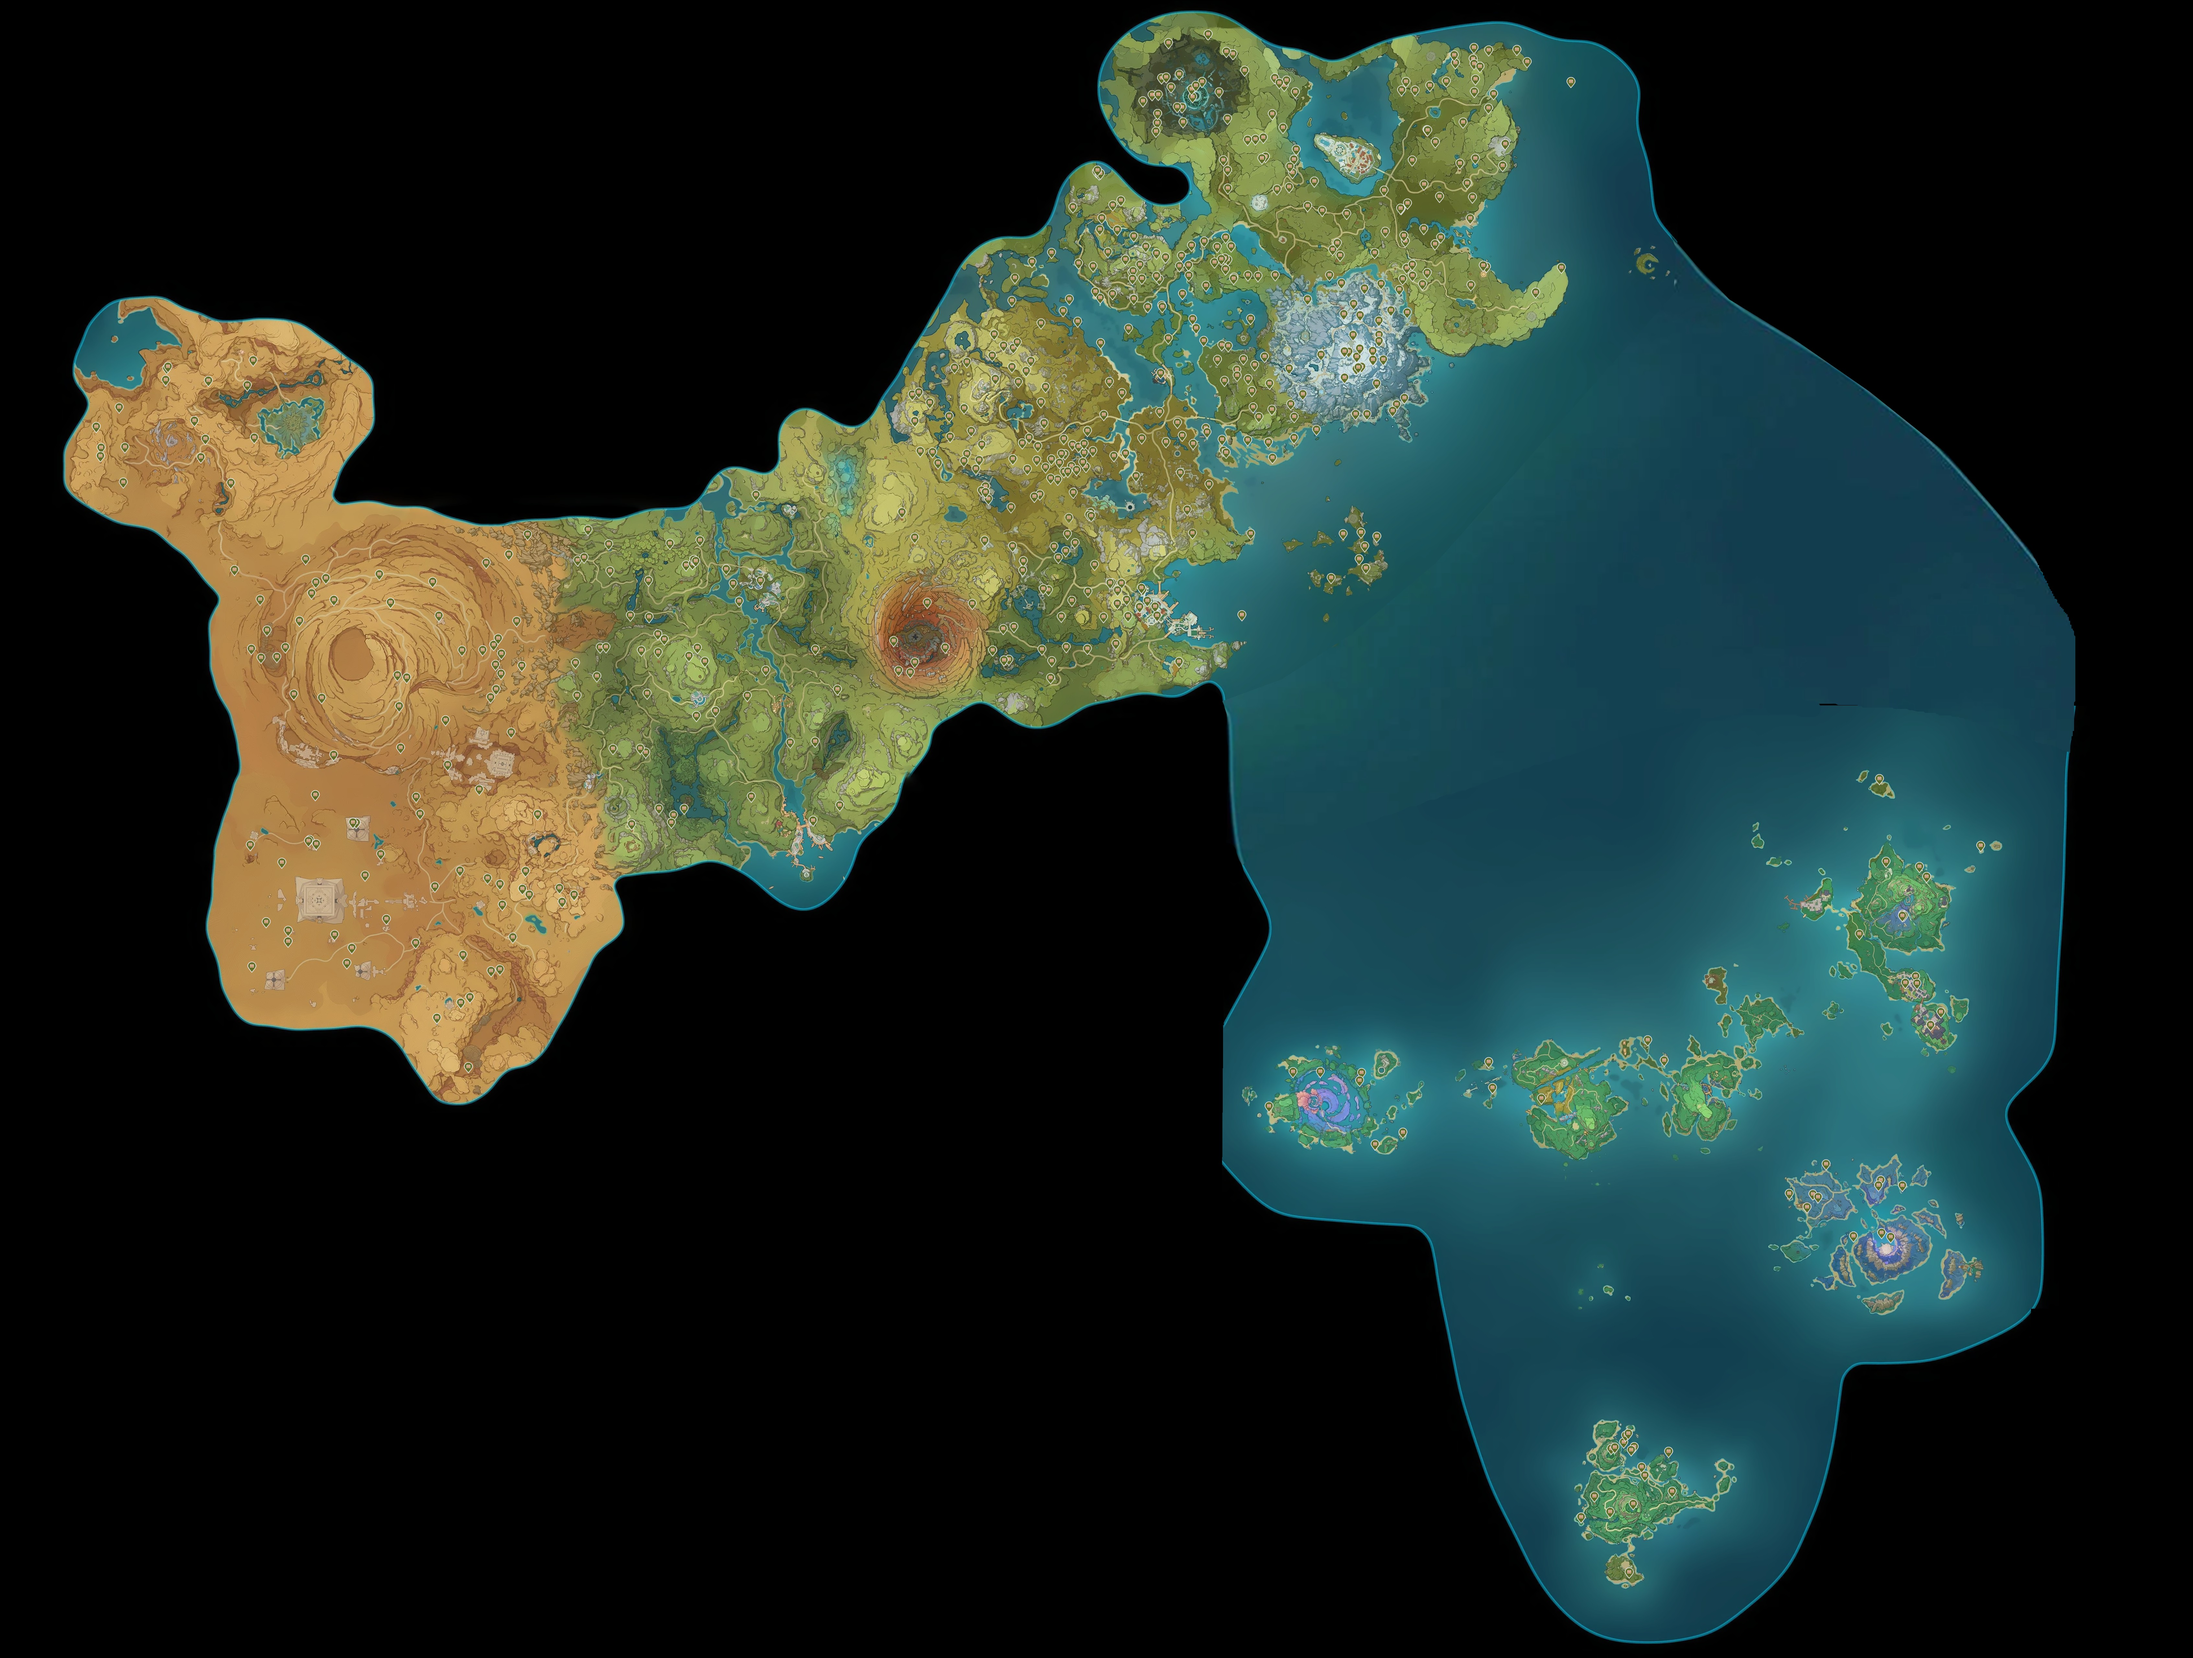
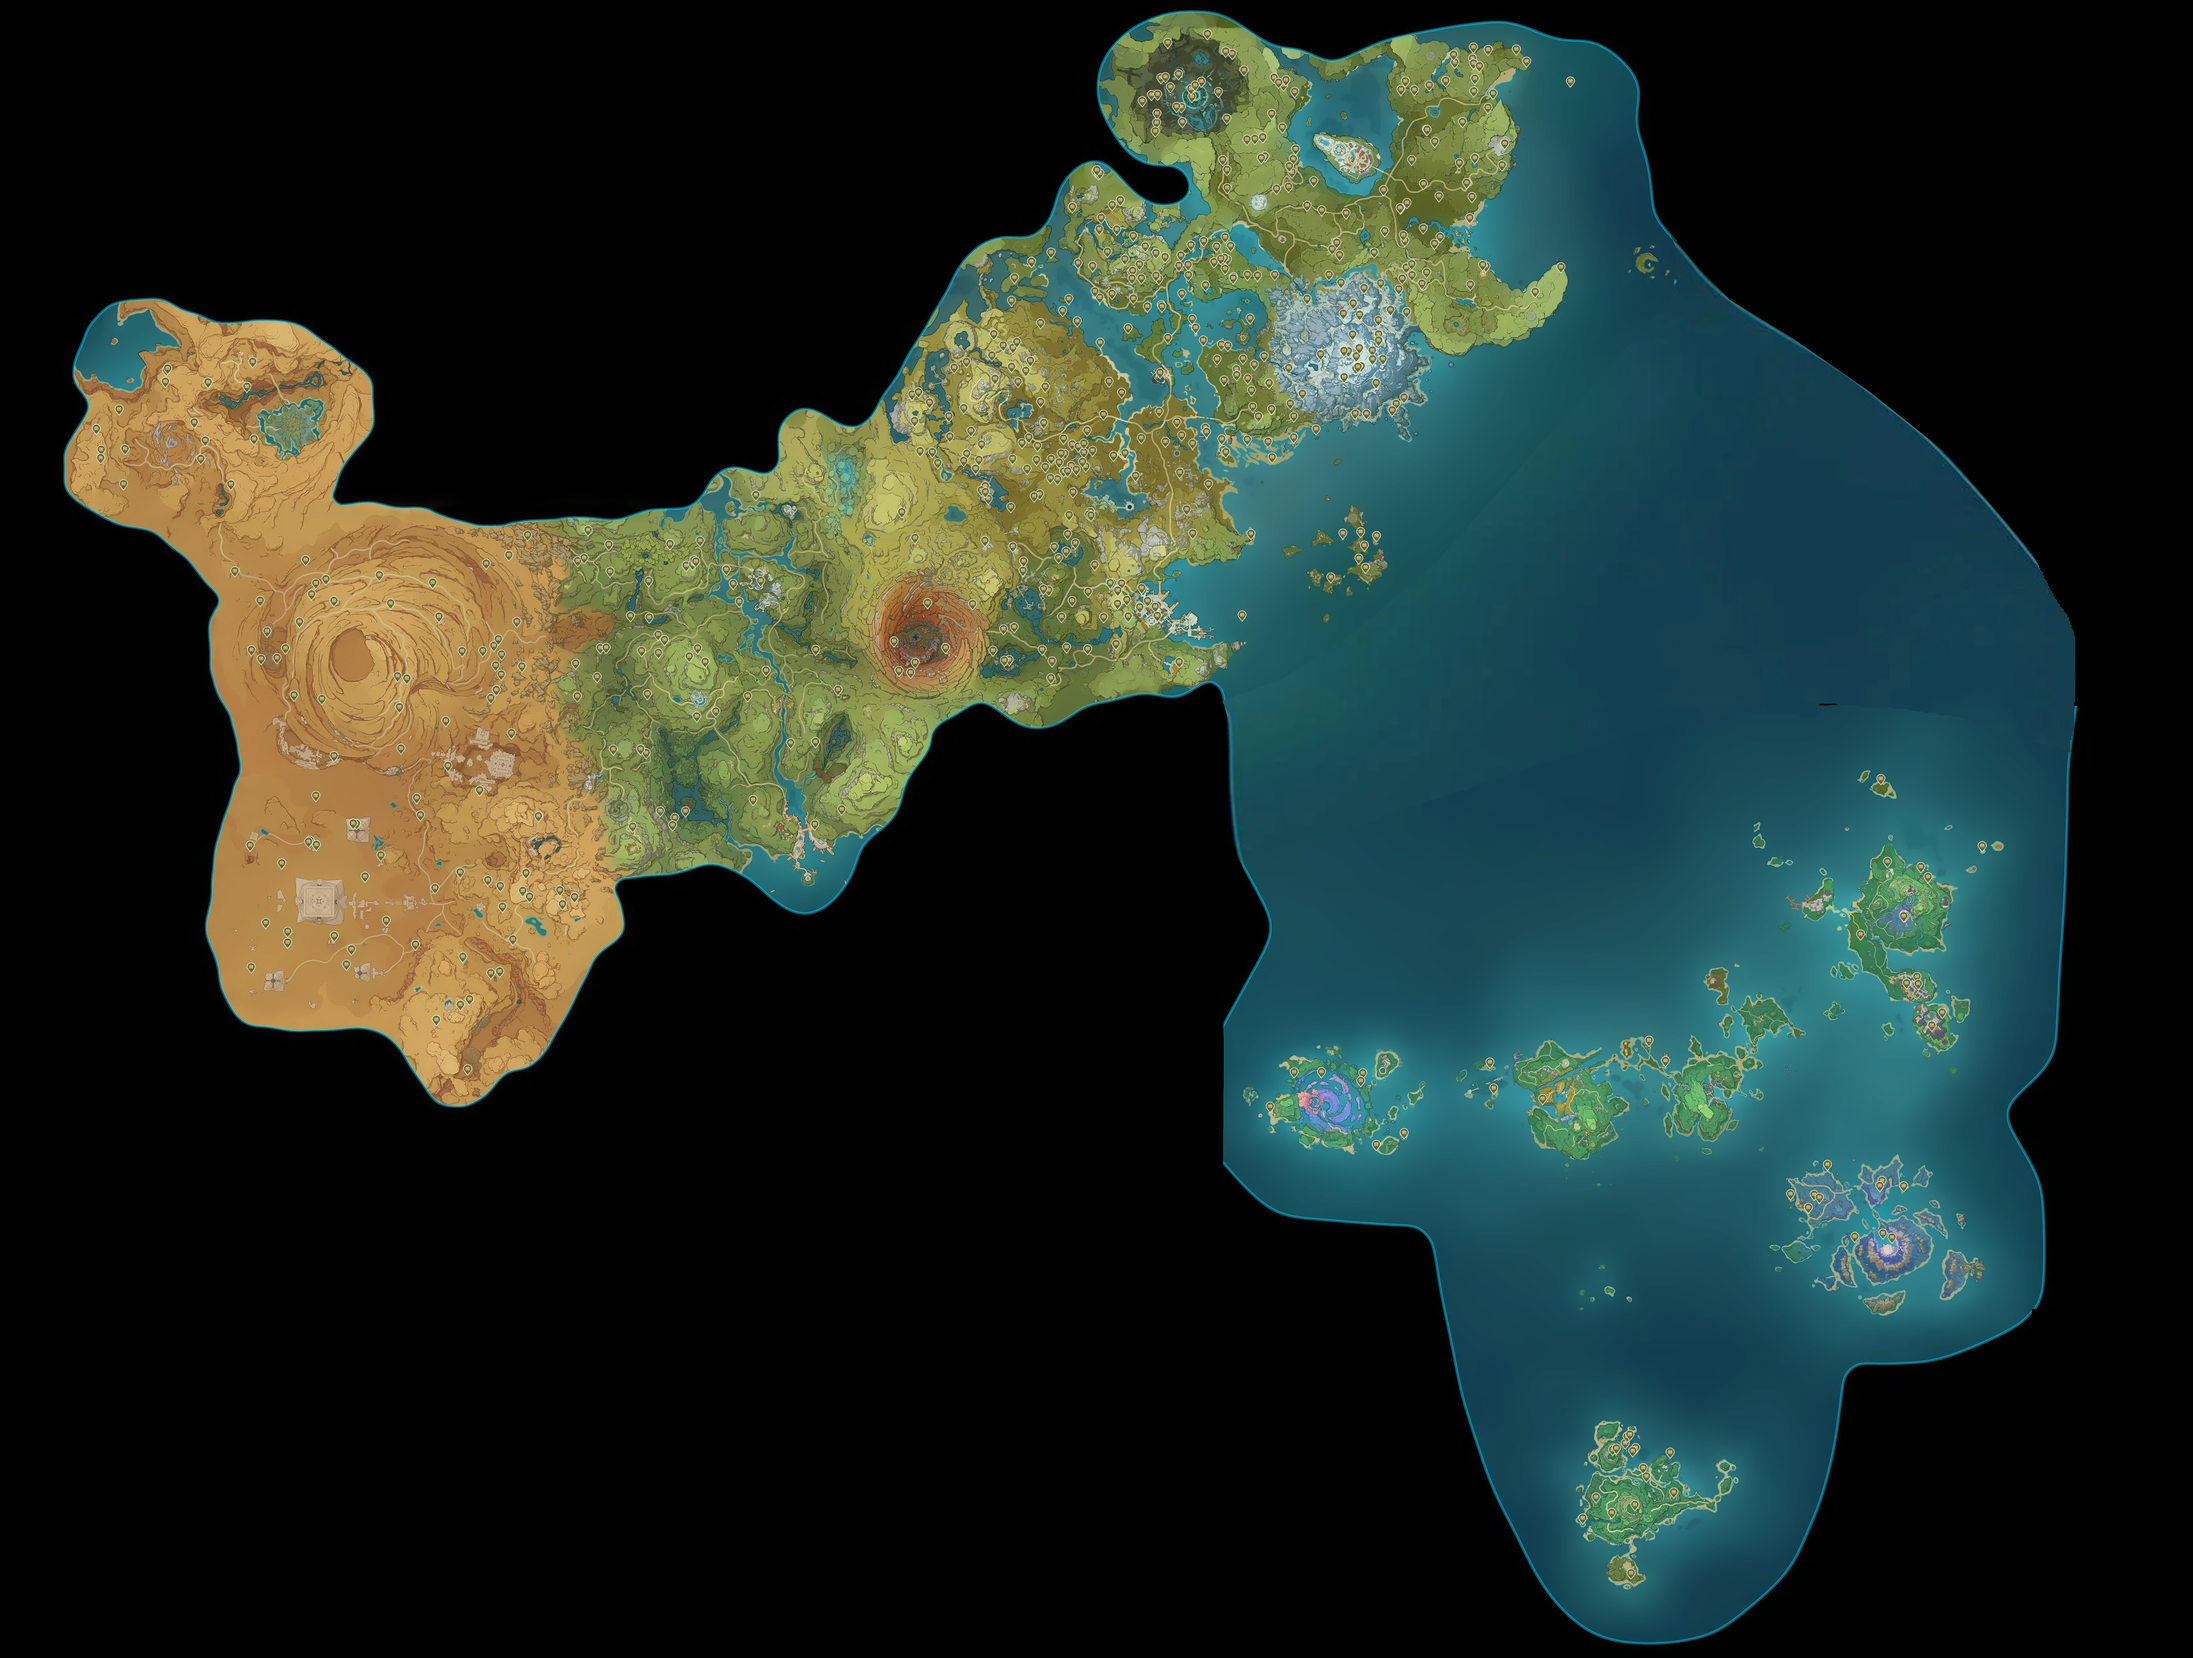
bug fixes and improvements

diff --git a/python/getmaps.py b/python/getmaps.py
@@ -122,17 +122,18 @@ def screenshot(title):
     # move map to starting position
     time.sleep(1)
     pan(50, 1300)
-    print(len(images))
     screenshot_To_Cv()
     pan(dragDistanceX)
     screenshot_To_Cv()  # 03
     pan(0, dragDistanceY)
     screenshot_To_Cv()  # 03
     # screenshot pan repeat - convert to for loops when finished
-    for _ in range(3):
+    for _ in range(2):
         pan(-1 * dragDistanceX)
         screenshot_To_Cv()  # 13 -> 10
-    pan(0, dragDistanceY)
+    pan(-1 * dragDistanceX - 200)
+    screenshot_To_Cv()
+    pan(200, dragDistanceY)
     screenshot_To_Cv()
     for _ in range(3):
         pan(dragDistanceX)

diff --git a/README.md b/README.md
@@ -7,4 +7,5 @@
 - [X] Add hours remaining overlay with typing animation
 - [ ] Add more maps
 - [ ] Add animations and clean up CSS
+- [ ] Fix empty image error in stitched rgb conversion by rerunning function and/or increasing image overlap
 - [X] Add remember visited buttons
